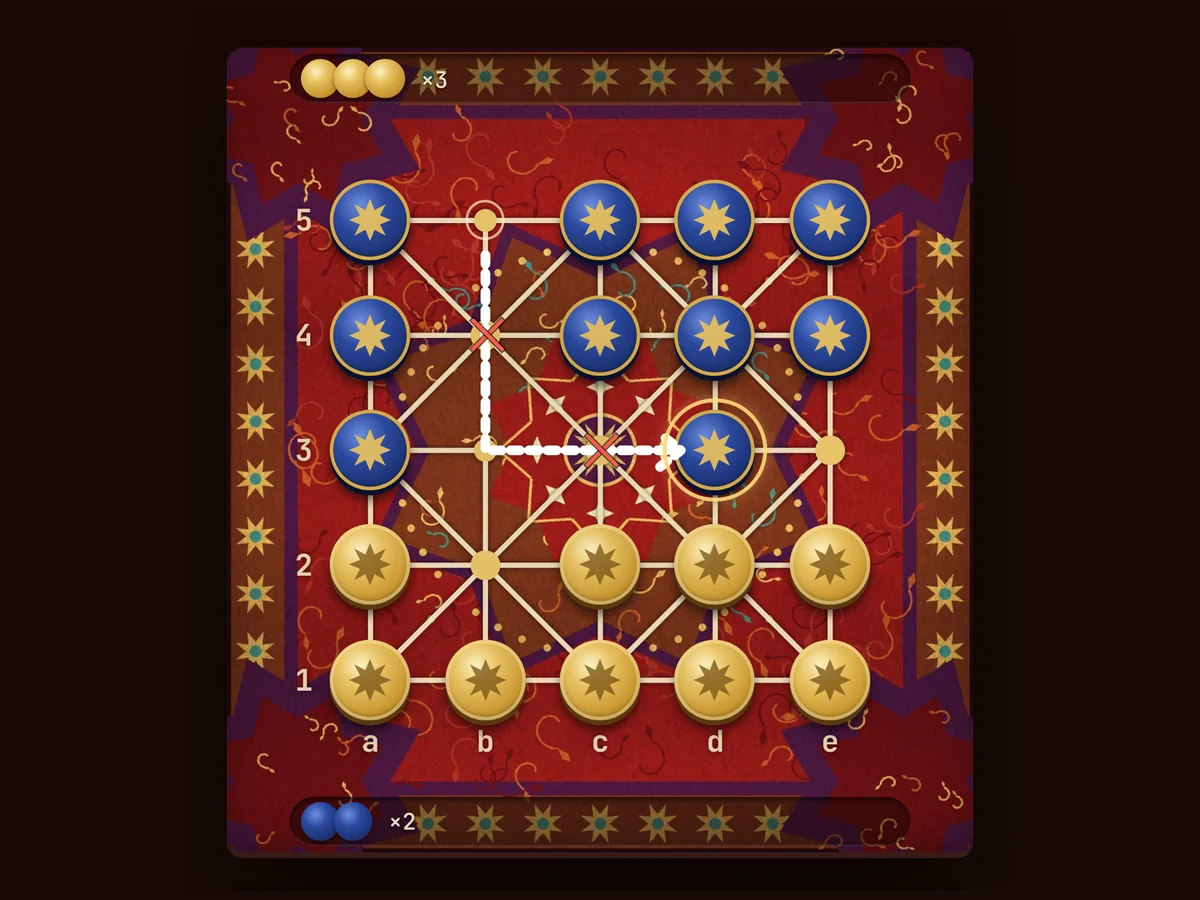
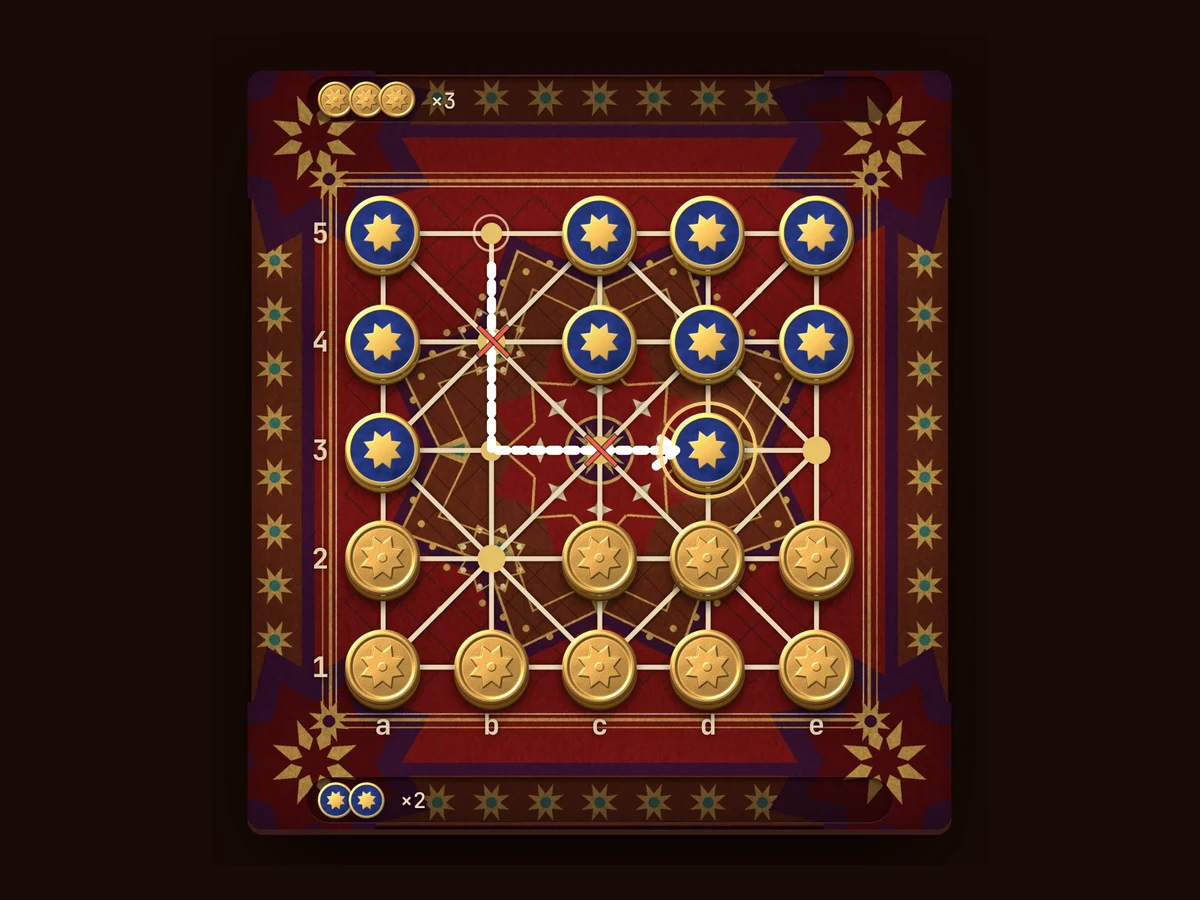
アルケルケ: トップSSを現在のデフォルト盤で更新、ヒストリカルとチョークの順を入れ替え
Claude-Session: https://claude.ai/code/session_01EiWRAYzNyyFMGgYmiTnvUY

diff --git a/index.html b/index.html
@@ -793,7 +793,7 @@ const GAMES = [
   { id:'tafl',       href:'./tafl/',          thumb:'images/tafl.webp',        icon:'images/icons/tafl.svg',        cat:'chess',     kind:'BOARD GAME', key:'tf',   isNew:true,  tags:['classic','ai','online','rated','daily','lessons','puzzles','openings','variants','mobile'], facts:{ ai:20, lessons:16, puzzles:390, players:'1–2' } },
   { id:'checkers',   href:'./checkers/',       thumb:'images/checkers.webp?v=3',    icon:'images/icons/checkers.svg',    cat:'chess',     kind:'BOARD GAME', key:'ck',   isNew:true,  tags:['classic','ai','online','rated','daily','lessons','puzzles','openings','mobile'], facts:{ ai:20, lessons:13, puzzles:500, players:'1–2' } },
   { id:'fanorona',   href:'./fanorona/',      thumb:'images/fanorona.webp?v=3',    icon:'images/icons/fanorona.svg?v=2',    cat:'chess',     kind:'BOARD GAME', key:'fn',   isNew:true,  tags:['classic','ai','online','rated','daily','lessons','puzzles','openings','variants','mobile'], facts:{ ai:20, lessons:12, puzzles:200, players:'1–2' } },
-  { id:'alquerque',  href:'./alquerque/',     thumb:'images/alquerque.webp',   icon:'images/icons/alquerque.svg',   cat:'chess',     kind:'BOARD GAME', key:'aq',   isNew:true,  tags:['classic','ai','online','rated','mobile'], facts:{ ai:20, players:'1–2' } },
+  { id:'alquerque',  href:'./alquerque/',     thumb:'images/alquerque.webp?v=2',   icon:'images/icons/alquerque.svg',   cat:'chess',     kind:'BOARD GAME', key:'aq',   isNew:true,  tags:['classic','ai','online','rated','mobile'], facts:{ ai:20, players:'1–2' } },
   { id:'sudoku',     href:'./sudoku/',        thumb:'images/sudoku.webp?v=2', icon:'images/icons/sudoku.svg?v=2', cat:'puzzle', kind:'PUZZLE', key:'sd', isNew:true, tags:['daily','puzzles','netrank','mobile'], facts:{ puzzles:1300, players:'1' } },
   { id:'speed-sudoku', href:'./speed-sudoku/', thumb:'images/speed-sudoku.webp', icon:'images/icons/speed-sudoku.svg', cat:'puzzle', kind:'PUZZLE', key:'ss', isNew:true, tags:['original','daily','puzzles','variants','netrank','mobile'], facts:{ puzzles:500, players:'1' } },
   { id:'samegame',   href:'./samegame/',      thumb:'images/samegame.webp?v=4', icon:'images/icons/samegame.svg?v=3', cat:'puzzle', kind:'PUZZLE', key:'sg', isNew:true, tags:['original','daily','puzzles','variants','netrank','mobile'], facts:{ puzzles:750, players:'1' } },

diff --git a/alquerque/index.html b/alquerque/index.html
@@ -1609,9 +1609,9 @@ html[data-pcs=felt] .pdisc.p1{background:#e6dcc4} html[data-pcs=felt] .pdisc.p2{
 
 <script>
 // Alquerque runs on the Fanorona scripts (fanorona/app.js, engine.js, online*.js) with this game's settings
-window.GAME = { id: 'alquerque', name: 'Alquerque', base: 'alq', rules: ['alq'], store: 'aicoding-alquerque', img: '../images/atlas/alquerque.webp',
+window.GAME = { id: 'alquerque', name: 'Alquerque', base: 'alq', rules: ['alq'], store: 'aicoding-alquerque', img: '../images/atlas/alquerque.webp?v=2',
   engine: '../fanorona/engine.js?v=fb2', bd: 'medallion', pcs: 'brass',
-  bds: ['medallion', 'kilim', 'patch', 'chalk', 'carved', 'damask', 'abstract', 'dark'], pcss: ['brass', 'felt', 'wood', 'matte', 'flat', 'mono'],
+  bds: ['medallion', 'kilim', 'patch', 'carved', 'chalk', 'damask', 'abstract', 'dark'], pcss: ['brass', 'felt', 'wood', 'matte', 'flat', 'mono'],
   bdImg: { carved: 'img/rug-carved.webp?v=7', damask: 'img/rug-damask.webp?v=5', chalk: 'img/rug-chalk.webp?v=1', medallion: 'img/rug-medallion.webp?v=7', kilim: 'img/rug-kilim.webp?v=6', patch: 'img/rug-patch.webp?v=6' },
   bdPal: { carved: ['#96704a', '#5e4026', '#2b190c'], damask: ['#3a4c60', '#26323f', '#eef2f6'], chalk: ['#2e3032', '#1c1d1e', '#ecebe6'], medallion: ['#962020', '#5a1c40', '#e2b254'], kilim: ['#cc282e', '#ec6e22', '#f4e8d2'], patch: ['#7a3a5a', '#2a608c', '#f4ead6'] },
   pcPal: { wood: [['#e0bc84', '#c49a64', '#7a5634'], ['#7a5232', '#5a3a20', '#2a180a']], matte: [['#ffffff', '#ecebe6', '#bdbab2'], ['#3a3a3c', '#1e1e20', '#0a0a0b']], brass: [['#fff0b8', '#d9ad4a', '#8a6420'], ['#3d5fb8', '#1d3478', '#0b1636']], felt: [['#f6eedc', '#e6dcc4', '#a89a80'], ['#3a5cae', '#1e3a84', '#0e1c48']] } };
